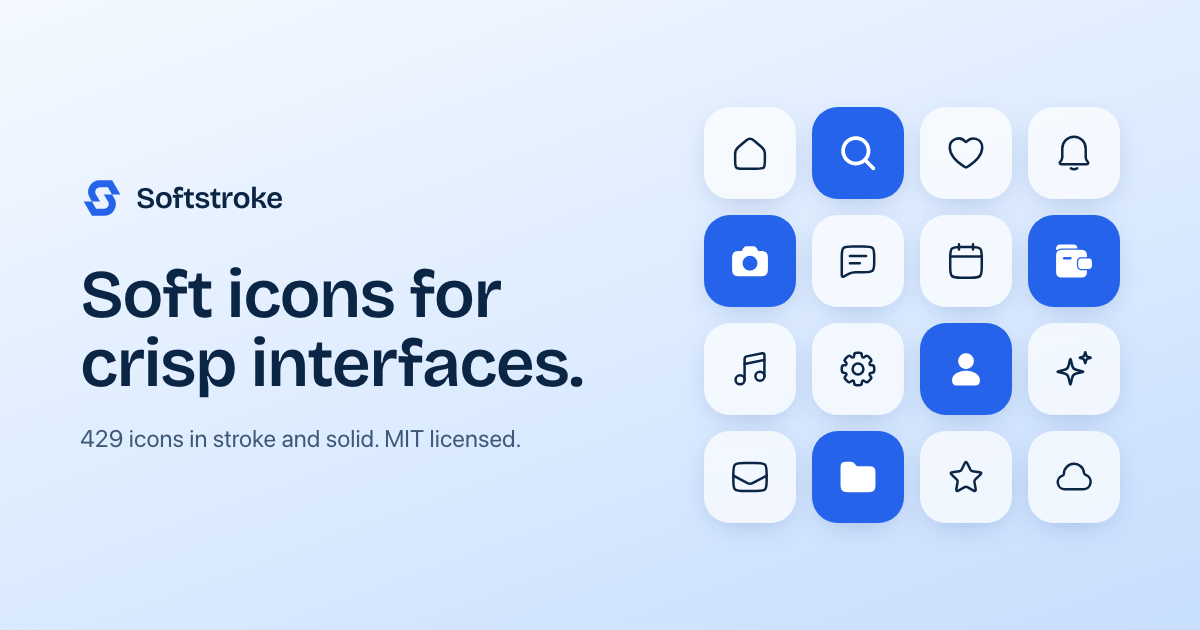
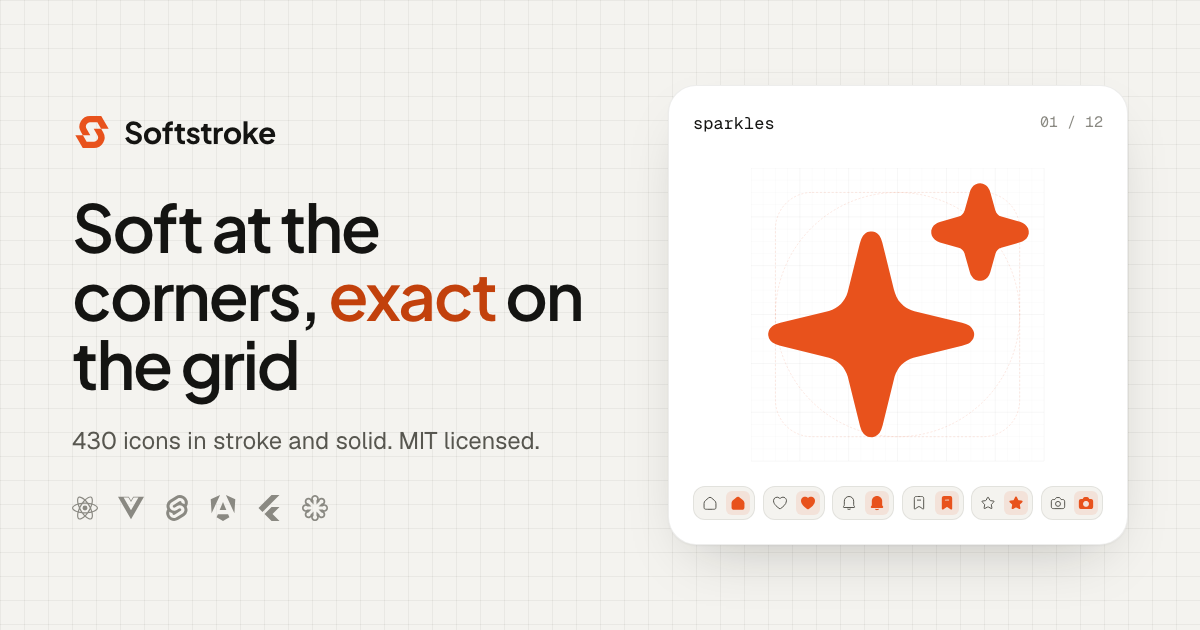
Website: og image in the Specimen design

diff --git a/web/src/app/og/page.tsx b/web/src/app/og/page.tsx
@@ -1,35 +1,56 @@
 import type { Metadata } from "next";
-import * as Stroke from "@softstroke/react";
-import * as Solid from "@softstroke/react/solid";
+import { siAngular, siFlutter, siReact, siSvelte, siSvg, siVuedotjs } from "simple-icons";
+import { Brand } from "@/components/Brand";
+import { Construct } from "@/components/home/Specimen";
 import { LogoMark } from "@/components/Logo";
-import type { IconName } from "@/lib/icons";
+import { Glyph } from "@/lib/glyph";
 import { ICON_COUNT } from "@/lib/count";
 
-// Social preview source: screenshot at 1200x630 into public/og.png (see web/README or the plan). Not linked, not indexed.
+// Social preview source: screenshot at 1200x630 into public/og.png. Not linked, not indexed.
+// Fixed light colours: the preview must look the same whatever theme the capture browser uses.
 export const metadata: Metadata = { title: "Softstroke preview", robots: { index: false, follow: false } };
 
-const NAMES: IconName[] = ["HomeIcon", "SearchIcon", "HeartIcon", "BellIcon", "CameraIcon", "ChatIcon", "CalendarIcon", "WalletIcon", "MusicIcon", "SettingsIcon", "UserIcon", "SparklesIcon", "MailIcon", "FolderIcon", "StarIcon", "CloudIcon"];
+const PAIRS = ["home", "heart", "bell", "bookmark", "star", "camera"];
+const LOGOS = [siReact, siVuedotjs, siSvelte, siAngular, siFlutter, siSvg];
 
 export default function OgImage() {
   return (
-    <div className="fixed left-0 top-0 z-50 flex h-[630px] w-[1200px] items-center gap-16 overflow-hidden bg-[linear-gradient(160deg,#f4f9ff,#dcebff_55%,#c7defd)] px-20 text-[#0b2545]">
+    <div
+      className="fixed left-0 top-0 z-[100] flex h-[630px] w-[1200px] items-center gap-14 overflow-hidden px-[72px] text-[#141412]"
+      style={{
+        background: "#f4f3ef",
+        backgroundImage: "linear-gradient(rgb(20 20 18 / 0.05) 1px, transparent 1px), linear-gradient(90deg, rgb(20 20 18 / 0.05) 1px, transparent 1px)",
+        backgroundSize: "24px 24px",
+      }}
+    >
       <div className="flex-1">
-        <p className="flex items-center gap-3 font-display text-3xl font-semibold tracking-tight">
-          <LogoMark className="size-11 text-[#2563eb]" />
+        <p className="flex items-center gap-3 font-display text-[30px] font-bold tracking-[-0.02em]">
+          <LogoMark className="size-10 text-[#e8521c]" />
           Softstroke
         </p>
-        <h1 className="mt-10 font-display text-[68px] font-semibold leading-[1.02] tracking-tight">Soft icons for crisp interfaces.</h1>
-        <p className="mt-6 text-2xl text-[#3f5878]">{ICON_COUNT} icons in stroke and solid. MIT licensed.</p>
+        <h1 className="mt-9 font-display text-[66px] font-semibold leading-[1.04] tracking-[-0.035em]">
+          Soft at the corners, <span className="text-[#c2410c]">exact</span> on the grid
+        </h1>
+        <p className="mt-6 text-[24px] text-[#57564f]">{ICON_COUNT} icons in stroke and solid. MIT licensed.</p>
+        <div className="mt-9 flex items-center gap-5 text-[#8a8982]">
+          {LOGOS.map((l) => <Brand key={l.title} logo={l} size={26} />)}
+        </div>
       </div>
-      <div className="grid grid-cols-4 gap-4">
-        {NAMES.map((n, i) => {
-          const C = (i % 3 === 1 ? Solid : Stroke)[n];
-          return (
-            <span key={n} className={`grid size-[92px] place-items-center rounded-[26px] ${i % 3 === 1 ? "bg-[#2563eb] text-white" : "bg-white/70 text-[#0b2545]"} shadow-[0_8px_30px_-12px_rgb(30_64_140/0.35)]`}>
-              <C size={40} />
+      <div className="relative size-[460px] shrink-0 rounded-[28px] border border-[rgb(20_20_18/0.08)] bg-white shadow-[0_1px_2px_rgb(20_20_18/0.04),0_24px_60px_-28px_rgb(20_20_18/0.28)]">
+        <span className="absolute left-6 top-6 font-mono text-[17px]">sparkles</span>
+        <span className="absolute right-6 top-6 font-mono text-[15px] text-[#8a8982]">01 / 12</span>
+        <div className="absolute inset-[18%] text-[#e8521c] [&_.construct_line]:stroke-[rgb(20_20_18/0.06)] [&_.construct_.major_line]:stroke-[rgb(20_20_18/0.12)]">
+          <Construct style={{ position: "absolute", inset: 0, width: "100%", height: "100%" }} />
+          <Glyph name="sparkles" solid size={0} className="absolute inset-0 size-full" />
+        </div>
+        <div className="absolute inset-x-6 bottom-6 flex items-center justify-between">
+          {PAIRS.map((n) => (
+            <span key={n} className="flex items-center gap-1 rounded-xl border border-[rgb(20_20_18/0.08)] bg-[#f4f3ef] p-1">
+              <span className="grid size-6 place-items-center text-[#57564f]"><Glyph name={n} size={16} /></span>
+              <span className="grid size-6 place-items-center rounded-md bg-[rgb(232_82_28/0.1)] text-[#e8521c]"><Glyph name={n} solid size={16} /></span>
             </span>
-          );
-        })}
+          ))}
+        </div>
       </div>
     </div>
   );
